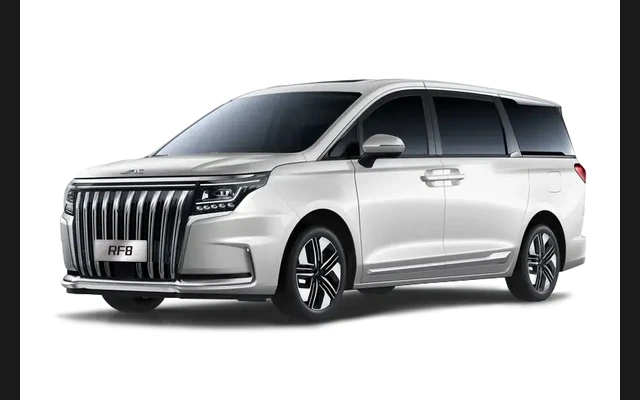
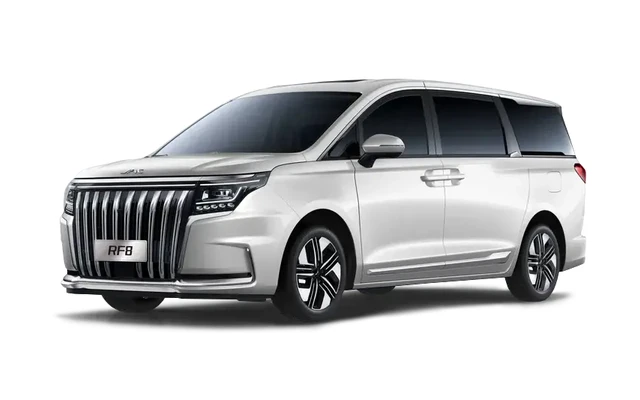
Change all car card/image backgrounds to white

Changed region(s): [[0.9688, 0.0, 1.0, 1.0], [0.0, 0.0, 0.0312, 1.0]]

diff --git a/css/style.css b/css/style.css
@@ -208,7 +208,7 @@ html.menu-open{overflow:hidden}
 .model-card{background:var(--white);border-radius:var(--radius-lg);overflow:hidden;transition:0.4s var(--ease);box-shadow:0 1px 3px rgba(0,0,0,0.04);border:1px solid var(--gray-200);min-width:0;cursor:pointer}
 .model-card:hover{transform:translateY(-8px);box-shadow:var(--shadow-lg);border-color:var(--gray-300)}
 .model-card.hidden-card{display:none}
-.model-img{position:relative;aspect-ratio:16/10;background:var(--gray-900);display:flex;align-items:center;justify-content:center;overflow:hidden}
+.model-img{position:relative;aspect-ratio:16/10;background:var(--white);display:flex;align-items:center;justify-content:center;overflow:hidden}
 .model-img img{width:100%;height:100%;object-fit:contain;transition:0.4s}
 .model-card:hover .model-img img{transform:scale(1.05)}
 .model-placeholder{font-size:60px;color:rgba(255,255,255,0.1);transition:0.4s}
@@ -323,9 +323,9 @@ html.menu-open{overflow:hidden}
 .cp-spec .spec-label{color:var(--gray-500);font-size:14px}
 .cp-spec .spec-value{font-weight:700;color:var(--primary);font-size:15px}
 .cp-cta{text-align:center}
-.cp-placeholder{width:100%;aspect-ratio:16/9;max-height:420px;background:var(--gray-900);border-radius:16px;display:flex;align-items:center;justify-content:center;margin-bottom:32px}
-.cp-placeholder i{font-size:80px;color:rgba(255,255,255,0.1)}
-.cp-card img[style*="display:block"]{max-height:420px;object-fit:contain;background:var(--gray-900)}
+.cp-placeholder{width:100%;aspect-ratio:16/9;max-height:420px;background:var(--white);border-radius:16px;display:flex;align-items:center;justify-content:center;margin-bottom:32px}
+.cp-placeholder i{font-size:80px;color:var(--gray-200)}
+.cp-card img[style*="display:block"]{max-height:420px;object-fit:contain;background:var(--white)}
 @media(max-width:1024px){
     .cp-hero{padding:100px 20px 50px}
     .cp-hero h1{font-size:clamp(28px,4.5vw,48px)}
